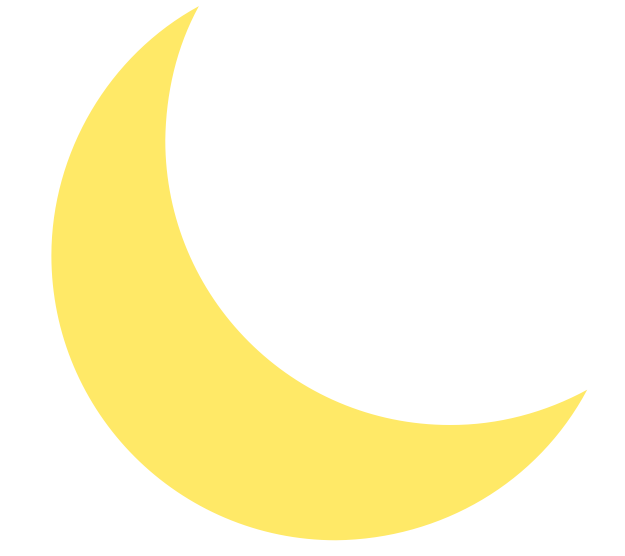
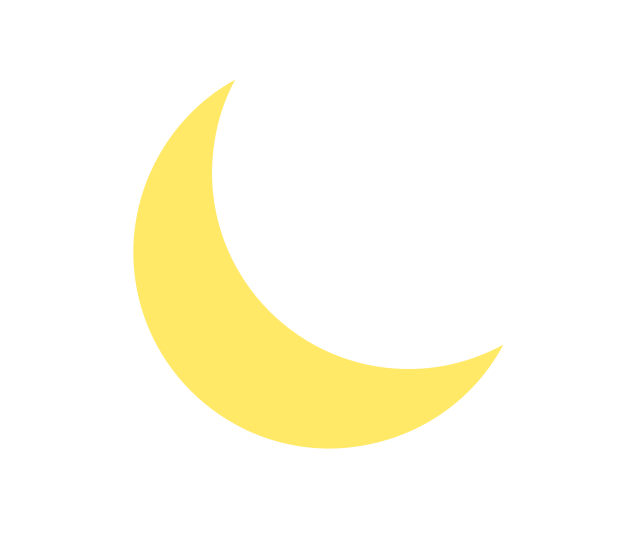
Fixed full screen issue with BottomStrip component. Use table tag for display prayer times. Removed RELOAD btn from TopToolbar

Changed region(s): [[0.0608, 0.0306, 0.9424, 0.9784], [0.304, 0.0, 0.3344, 0.0306]]

diff --git a/src/components/PrayerTimes/PrayerTimes.tsx b/src/components/PrayerTimes/PrayerTimes.tsx
@@ -18,27 +18,31 @@ const PrayerTimes: Component<PrayerTimesProps> = (props) => {
   const isyak = memoizedPrayers()[5];
   return (
     <div class={styles.container}>
-      <div class={styles.rowContainer}>
-        <div class={styles.prayerName}>{subuh.name}</div>
-        <div class={styles.prayerTime}>{subuh.time}</div>
-        <div class={styles.decorationSunrise}></div>
-        <div class={styles.prayerName}>{syuruk.name}</div>
-        <div class={styles.prayerTime}>{syuruk.time}</div>
-      </div>
-      <div class={styles.rowContainer}>
-        <div class={styles.prayerName}>{zohor.name}</div>
-        <div class={styles.prayerTime}>{zohor.time}</div>
-        <div class={styles.decorationSun}></div>
-        <div class={styles.prayerName}>{asar.name}</div>
-        <div class={styles.prayerTime}>{asar.time}</div>
-      </div>
-      <div class={styles.rowContainer}>
-        <div class={styles.prayerName}>{maghrib.name}</div>
-        <div class={styles.prayerTime}>{maghrib.time}</div>
-        <div class={styles.decorationMoon}></div>
-        <div class={styles.prayerName}>{isyak.name}</div>
-        <div class={styles.prayerTime}>{isyak.time}</div>
-      </div>
+      <table class={styles.table}>
+        <tbody>
+          <tr>
+            <td class={styles.wide}>{subuh.name}</td>
+            <td class={styles.wideTime}>{subuh.time}</td>
+            <td class={`${styles.narrow} ${styles.decorationSunrise}`}></td>
+            <td class={styles.wide}>{syuruk.name}</td>
+            <td class={styles.wideTime}>{syuruk.time}</td>
+          </tr>
+          <tr>
+            <td class={styles.wide}>{zohor.name}</td>
+            <td class={styles.wideTime}>{zohor.time}</td>
+            <td class={`${styles.narrow} ${styles.decorationSun}`}></td>
+            <td class={styles.wide}>{asar.name}</td>
+            <td class={styles.wideTime}>{asar.time}</td>
+          </tr>
+          <tr>
+            <td class={styles.wide}>{maghrib.name}</td>
+            <td class={styles.wideTime}>{maghrib.time}</td>
+            <td class={`${styles.narrow} ${styles.decorationMoon}`}></td>
+            <td class={styles.wide}>{isyak.name}</td>
+            <td class={styles.wideTime}>{isyak.time}</td>
+          </tr>
+        </tbody>
+      </table>
     </div>
   );
 };

diff --git a/src/components/PrayerTimes/PrayerTimes.module.scss b/src/components/PrayerTimes/PrayerTimes.module.scss
@@ -1,5 +1,5 @@
 .container {
-  width: 90%;
+  margin-top: 9rem;
   display: flex;
   flex-direction: column;
   align-items: center;
@@ -17,28 +17,31 @@
   }
 }
 
-.rowContainer {
+.table {
+  font-size: 13.0rem;
   width: 100%;
-  min-height: 225px;
-  display: flex;
-  flex-direction: row;
-  align-items: center;
-  justify-content: center;
-  font-family: 'Archivo Narrow', serif;
-  font-size: 9.0rem;
-}
-
-.prayerName {
-  min-width: 475px;
-  padding-left: 2rem;
+  border-collapse: collapse;
   font-family: 'Archivo Narrow', serif;
 }
 
-.prayerTime {
-  min-width: 255px;
-  font-weight: 600;
-  text-align: center;
-} 
+.table td {
+}
+
+.table .wideTime {
+  width: 17%; /* 1/4 of the total width for columns 1, 2, 4, and 5 */
+  text-align: left;
+  padding-left: 1rem;
+}
+
+.table .wide {
+  padding-left: 3rem;
+  width: 25%; /* 1/4 of the total width for columns 1, 2, 4, and 5 */
+}
+
+.table .narrow {
+  width: 5%; /* Narrow width for the middle column */
+  text-align: center; /* Center align content horizontally */
+}
 
 .decorationSunrise {
   width: 75px;
@@ -61,15 +64,14 @@
 }
 
 .decorationMoon {
-  width: 65px;
-  height: 55px;
+  width: 35px;
+  height: 25px;
   background-image: url('../../assets/images/moon.png');
   background-size: contain;
   background-repeat: no-repeat;
   background-position: center;
   opacity: 0.5;
 }
-
 .emptyDecoration {
   min-width: 65px;
 }
@@ -77,16 +79,7 @@
 $small: 1440px;
 $medium: 1441px;
 @media screen and (min-width: $small) and (max-width: $medium) {
-  .rowContainer {
-    font-size: 6.7rem;
-    min-height: 155px;
+  .table {
+    font-size: 6.5rem;
   }
-
-  .prayerName {
-    min-width: 355px;
-    padding-left: 1rem;
-  }
-  .prayerTime {
-    min-width: 175px;
-  } 
 }

diff --git a/src/components/TopToolbar/TopToolbar.tsx b/src/components/TopToolbar/TopToolbar.tsx
@@ -15,18 +15,12 @@ const TopToolbar: Component<TopToolbarProps> = (props: TopToolbarProps) => {
 
   const { setScreen, setTest } = usePrayerService();
 
-  const handleReload = () => {
-    window.location.reload()
-  }
-
   return (
     <div class={styles.topButtons}>
       <button class={styles.btnDev} onClick={() => setScreen(Screen.DEFAULT)}>Home</button>
       <button class={styles.btnDev} onClick={() => setScreen(Screen.SETTINGS)}>Settings</button>
       <button class={styles.btnDev} onClick={() => props.toggleFullScreen()}>Fullscreen</button>
-      <button class={styles.btnDev} onClick={() => handleReload()}>Reload</button>
       <button class={styles.btnDev} onClick={() => setTest(TestMode.TEST_SUBUH)}>T.Subuh</button>
-      {/* <button class={styles.btnDev} onClick={() => setScreen(Screen.DEV)}>Dev</button> */}
       <div class={styles.version}>Ver.{VERSION} ({DEV_MODE ? <button class={styles.btnDev} onClick={() => setScreen(Screen.DEV)}>Dev</button> : "R"})</div>
     </div>
   )

diff --git a/src/App.tsx b/src/App.tsx
@@ -96,12 +96,9 @@ const App: Component = () => {
         console.log(`Error attempting to enable full-screen mode: ${e.message}`);
       });
     } else {
-      if (document.exitFullscreen) {
-        document.exitFullscreen();
-      }
+      document.exitFullscreen();
     }
   };
-
 
   const renderMainArea = () => {
     // console.log(screen());
@@ -128,7 +125,7 @@ const App: Component = () => {
   };
 
   return (
-    <div class={styles.container} style={{ width: `${getWindowDimensions().width}px`, height: `${getWindowDimensions().height}px` }}>
+    <div class={styles.container}>
       {isOnline() ? <OnlineIndicator /> : null}
       <TopToolbar toggleFullScreen={toggleFullScreen} />
       <div class={styles.mainArea}>

diff --git a/src/components/EventScreen/EventScreen.tsx b/src/components/EventScreen/EventScreen.tsx
@@ -10,6 +10,13 @@ const EventScreen: Component = () => {
 
   return (
     <div class={styles.container}>
+      <Show when={!displayEvent()}>
+        <div class={styles.dateContainer}>Isnin, 11 Jan 2055</div>
+        <div class={styles.borderBottom}></div>
+        <div class={styles.announcementText}>
+          Testing Event Screen. Semua Jemaah Qariah dijemput Hadir ke Kuliah Maghrib.
+        </div>
+      </Show>
       <Show when={displayEvent()}>
         <div class={styles.dateContainer}>{format(displayEvent().date, 'EEEE dd MMM yyyy', { locale: ms })}</div>
         <div class={styles.borderBottom}></div>

diff --git a/src/components/DevMode/DevMode.tsx b/src/components/DevMode/DevMode.tsx
@@ -15,6 +15,7 @@ const DevMode = (props: DevModeProps) => {
   return (
     <div class={styles.container}>
       <div class={styles.testButtonsContainer}>
+        <button class={styles.testButton} onClick={() => setScreen(Screen.DEFAULT)}>Default</button>
         <button class={styles.testButton} onClick={() => setScreen(Screen.EVENT)}>Event</button>
         <button class={styles.testButton} onClick={() => setScreen(Screen.PRAYER_TIMES)}>Prayer Times</button>
         <button class={styles.testButton} onClick={() => setScreen(Screen.DAILY_VERSE)}>Daily Verse</button>

diff --git a/src/App.module.scss b/src/App.module.scss
@@ -1,21 +1,17 @@
 .container {
-  width: 100%;
-  height: 100%;
   display: flex;
   flex-direction: column;
-  position: relative;
+  height: 99.7vh;
 }
 
 .mainArea {
-  width: 100%;
-  display: flex;
-  flex-direction: column;
-  align-items: center;
-  justify-content: center;
   flex-grow: 1;
-  overflow-y: auto; // Add this line
   background-color: var(--background-color);
-  padding-bottom: 15px; 
+}
+
+.bottomStrip {
+  background-color: var(--strip-color); // Your desired color
+  flex-shrink: 0; // Make sure it doesn't shrink
 }
 
 .onlineIndicator {

diff --git a/src/components/DefaultMainArea/DefaultMainArea.module.scss b/src/components/DefaultMainArea/DefaultMainArea.module.scss
@@ -1,4 +1,5 @@
 .container {
+  margin-top: 9rem;
   display: flex;
   flex-direction: row;
   align-items: center;
@@ -44,6 +45,10 @@
 $small: 1440px;
 $medium: 1441px;
 @media screen and (min-width: $small) and (max-width: $medium) {
+  .container {
+    margin-top: 3rem;
+  }
+
   .dateContainer {
     display: flex;
     flex-direction: column;

diff --git a/src/components/DevMode/DevMode.module.scss b/src/components/DevMode/DevMode.module.scss
@@ -1,4 +1,5 @@
 .container {
+  margin-top: 5rem;
   display: flex;
   flex-direction: row;
   align-items: center;
